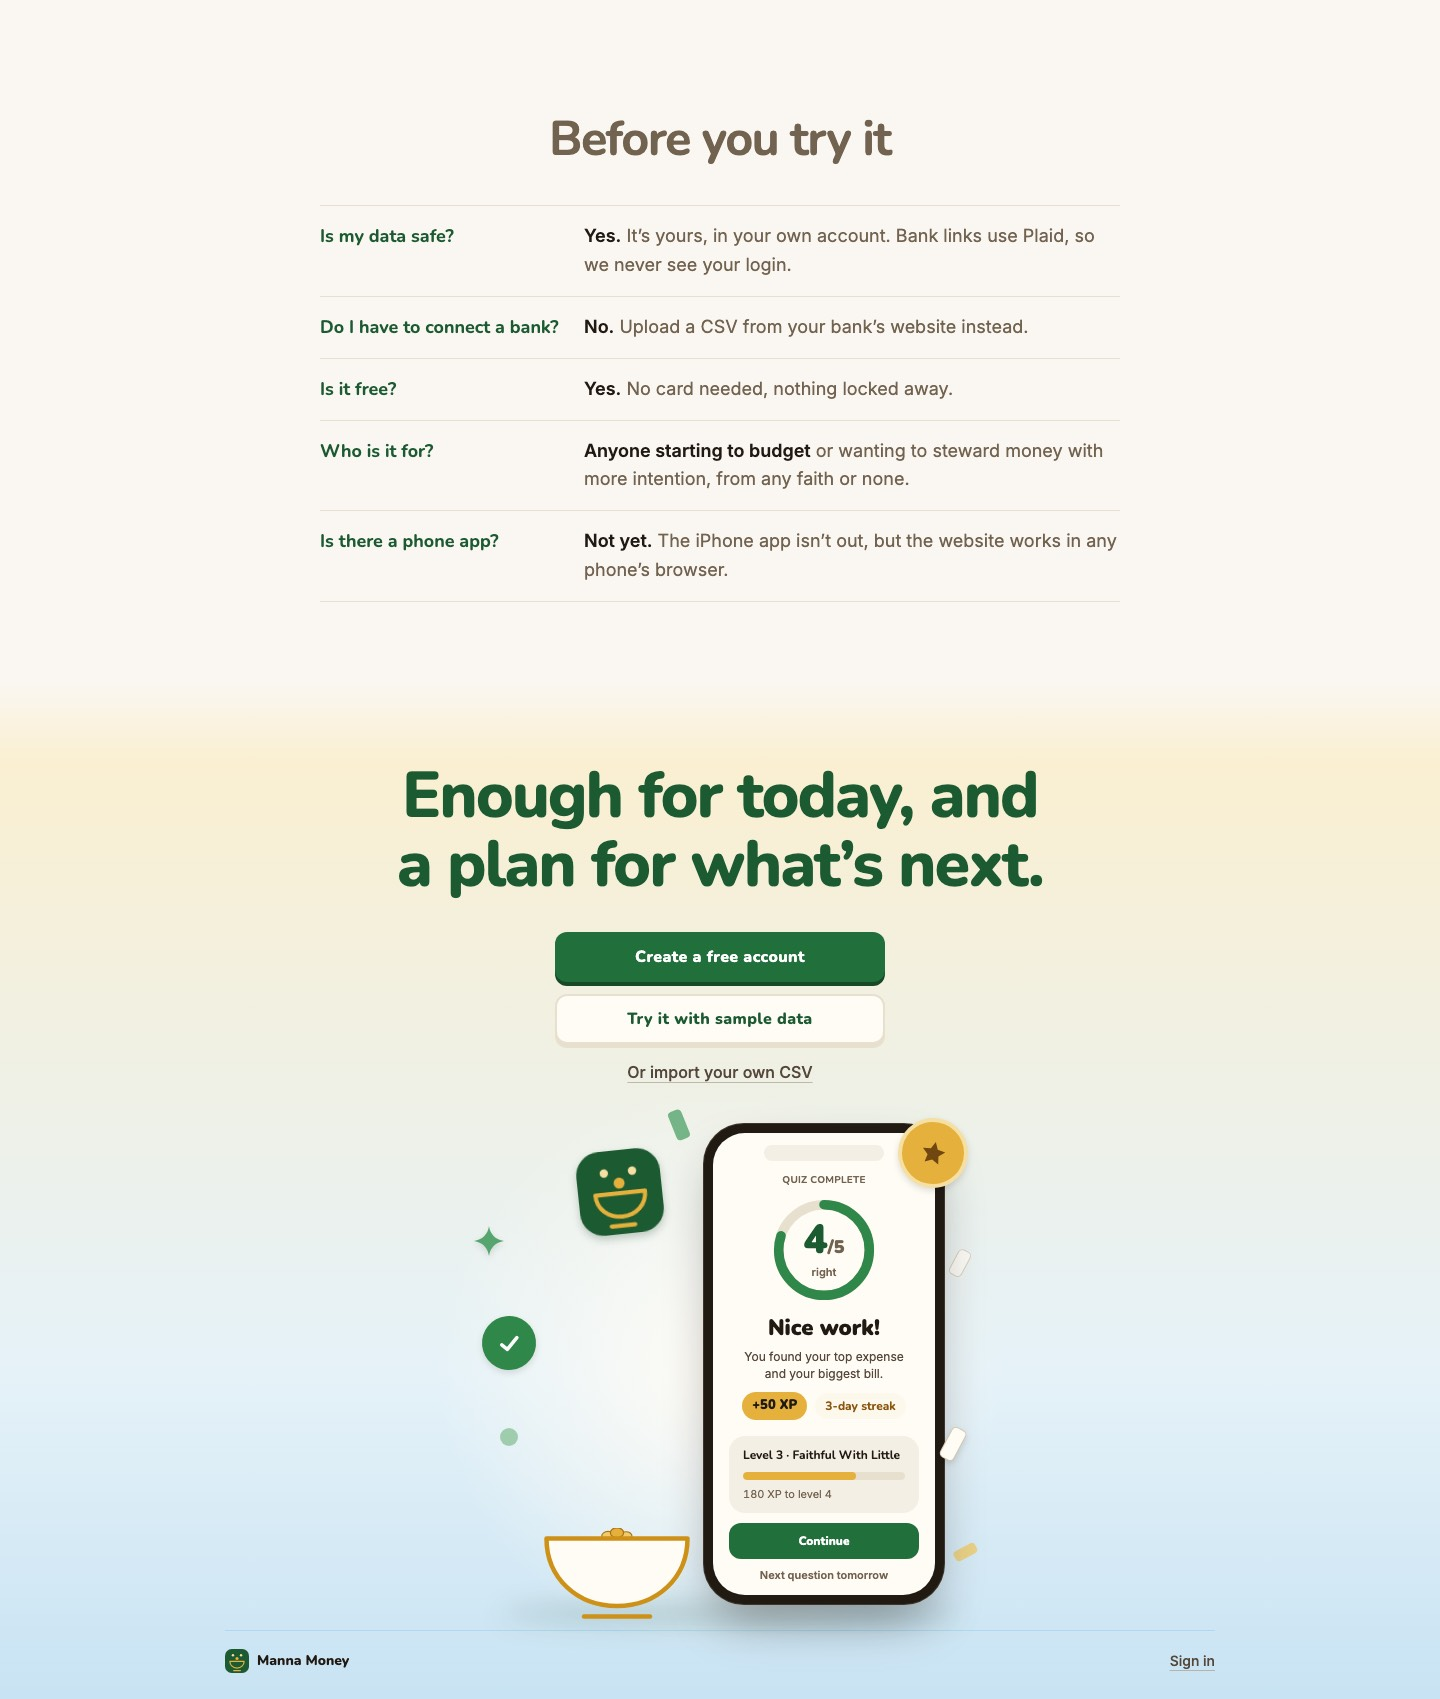
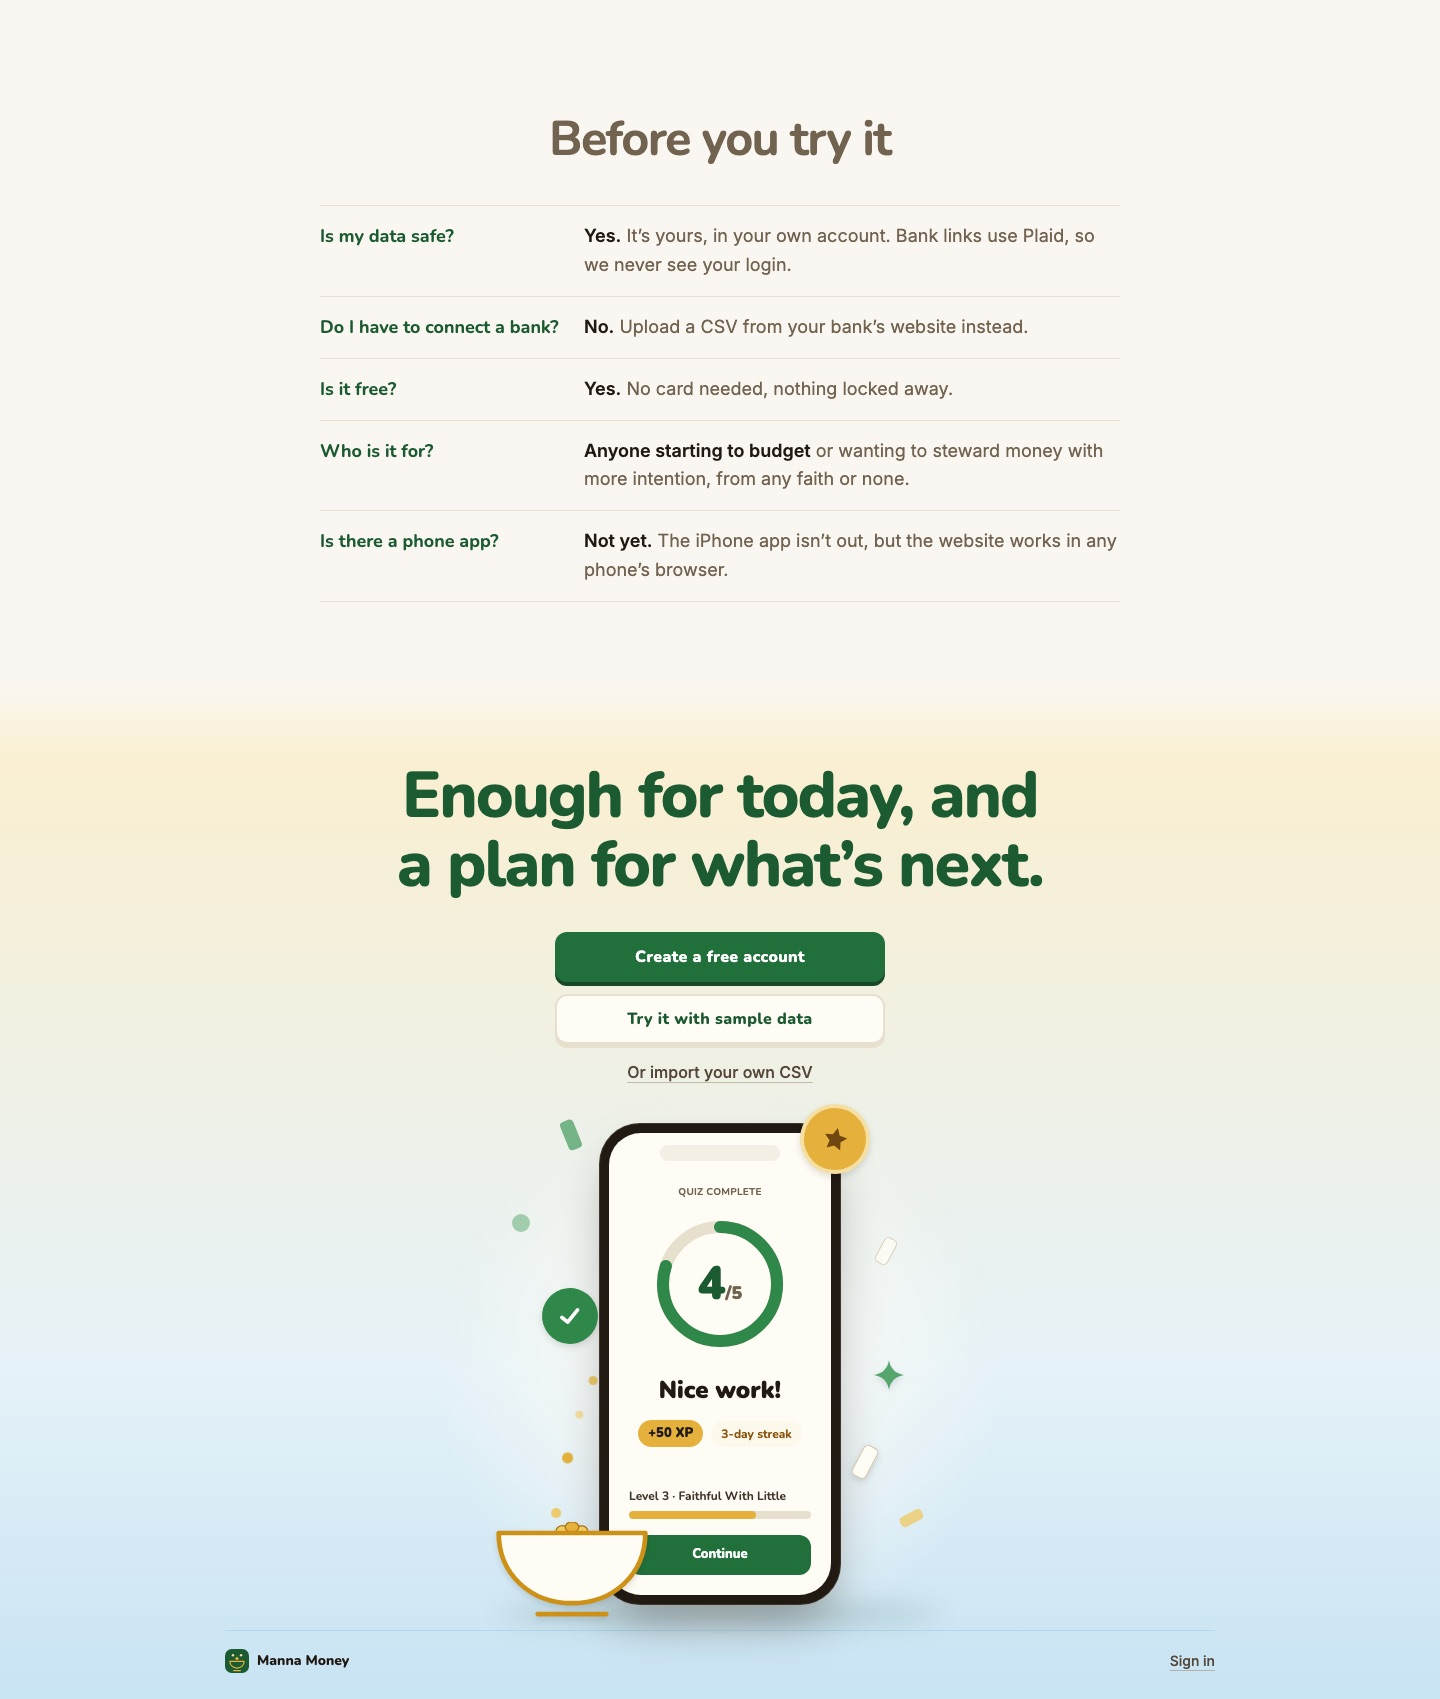
Update the landing handoff and current-round screenshots

Changed region(s): [[0.3125, 0.6239, 0.6875, 0.967]]

diff --git a/docs/design/landing/HANDOFF.md b/docs/design/landing/HANDOFF.md
@@ -1,8 +1,9 @@
 # Landing page redesign: handoff
 
-*Written 2026-09-24 at the end of the first design-loop run. Branch
-`feature/design-loop-landing`, last commit `7c8b766`. Read this first if you're
-picking up the landing page, restyling it, or running another design loop.*
+*Written 2026-09-24 at the end of the first design-loop run, and updated the
+same day after David's review of the rounds (see "David's round review" below).
+Branch `feature/design-loop-landing`. Read this first if you're picking up the
+landing page, restyling it, or running another design loop.*
 
 ## What exists now
 
@@ -20,13 +21,16 @@ signed out with no data.
 | --- | --- |
 | `src/components/landing/Landing.tsx` | Page shell and the `LandingActions` props (`onSignUp`, `onTrySample`, `onImport`, `onSignIn`). |
 | `LandingHero.tsx` + `hero.css` | Headline, subheadline, `CtaPair`, and the visual: morning clouds with a sun behind them, manna falling into a bowl, beside a phone showing "Correct! +10 XP". |
-| `LandingHowItWorks.tsx` + `how.css` | "From bank to budget": three alternating rows (connect your bank / one question a day / steady budgets + small wins). Bank tiles come from one `BANKS` array of neutral placeholders; swap each `mark` for a real bank SVG later. |
-| `LandingWhy.tsx` + `why.css` | "Why Manna?" story (Fraunces softened, body size) and feature blocks: a pause each morning (verse of the day, optional), room to give, safe and yours. |
-| `LandingFinal.tsx` + `final.css` | Short FAQ ("Before you try it"), then the finale on its own dawn band: closing headline, `CtaPair`, import link, and the celebration (phone showing Quiz complete 4/5, Nice work, +50 XP, streak chip, level progress, Continue; confetti burst, medal, check; small logo dropping manna into the bowl). Footer with wordmark and Sign in. |
+| `LandingHowItWorks.tsx` + `how.css` | "From bank to budget": intro, the three step tiles (`HowSteps`), then two alternating rows: **One question a day** (the streak lives on this card, since answering daily is what grows it) and **Simple, steady budgets** (bars are forest green while under budget, as on the real Budgets card). |
+| `HowSteps.tsx` + `steps.css` | The three small steps in round 2's tile style: connect your bank, see your categories (a list that opens onto Groceries' transactions), plan your whole year (the round-1 Year Sheet card; numbers ripple in ring by ring from the top-right cell, then the Net row swells and brightens). Each tile plays **on hover or keyboard focus**; on touch screens it plays when centred and a tap replays it. Bank tiles come from one `BANKS` array of neutral placeholders; swap each `mark` for a real bank SVG later. |
+| `LandingWhy.tsx` + `why.css` | "Why Manna?" story (round-1 text in the storyteller voice, and the round-1 picture: manna falling into a honey bowl on a dawn disc), then room to give and safe and yours. |
+| `LandingFinal.tsx` + `final.css` | Short FAQ ("Before you try it"), then the finale on its own dawn band: closing headline, `CtaPair`, import link, and the round-4 celebration: the phone centred (Quiz complete 4/5 counting up, Nice work, +50 XP and streak chips, level bar, Continue), confetti, medal and check bursting out, and `MannaBowl` in front of the phone's foot (where round 4's hands were) catching falling manna. Footer with wordmark and Sign in. |
+| `ThemeSwitch.tsx` | The sun/moon pair in the hero's top bar. It sets the store's `theme`, the same setting as the app's own switch. |
 | `CtaPair.tsx` | The shared button stack, so the hero and finale always match. Without accounts configured, sample data becomes the only (primary) button. |
 | `PressButton.tsx` | The chunky press-in button (DESIGN.md recipe; the dark-mode edge steps up to forest-700 so it shows). |
 | `MannaBowl.tsx` | The bowl the manna lands in (the logo's closed bowl, drawn large). This is **Omer's spot**: when his art exists he replaces it, in the hero and the finale. |
-| `useReplayInView.ts` | Scroll motion: `rest` / `armed` / `play` phases. Plays when the element reaches the **middle band** of the screen (centre 30%), replays every time it comes back, and stays at `rest` under reduced motion. The start pose must still show all content. |
+| `useReplayInView.ts` | Scroll motion: `rest` / `armed` / `play` phases. Plays only once the element's **middle reaches the middle of the screen** (within 12% of the viewport height); an element taller than the screen plays once it covers the middle, and at the very top or bottom of the page being fully on screen is enough. Replays every time it comes back, and stays at `rest` under reduced motion. The start pose must still show all content. |
+| `useHoverPlay.ts` | The step tiles' trigger: the same phases, driven by hover/focus, falling back to `useReplayInView` plus tap-to-replay on touch screens. |
 | `styles.ts` | The shared type scale and rhythm: `DISPLAY` (36/64px), `HEADING` (34/48px), `BODY` (17/18px, linen-500), `SECTION`, `COLUMN` (990px). |
 
 Also changed outside the landing folder: **the logo** (`MannaLogo` in
@@ -59,6 +63,21 @@ language.
 - **Bank logos:** real SVG logos come later; placeholders for now.
 - **Mascot:** Omer isn't drawn. Don't generate characters (and don't use
   Higgsfield). The bowl holds his spot.
+- **Finale:** round 4's layout (phone centred, rewards around it) with the
+  bowl in the hands' spot. The phone keeps one of each thing: score, verdict,
+  XP and streak, level bar, Continue. The "You found your top expense…" line
+  and "Next question tomorrow" were cut as redundant.
+- **How it works:** the three setup steps are connect → categories → Year
+  Sheet, as hover tiles in round 2's style. The streak goes with the daily
+  question, never with budgets (they're separate features). Budget bars are
+  green while under budget.
+- **Why Manna:** round 1's story text ("Manna came each morning, just enough
+  for the day…") and round 1's bowl. It speaks to anyone rather than one
+  faith. "A pause each morning" was removed, mainly so the page never
+  suggests skipping the verse ("skip straight past").
+- **Motion timing:** scroll animations wait until the thing is in the middle
+  of the screen, not when it first peeks in.
+- **Theme switch:** a small sun/moon pair at the top of the page.
 
 Design-system calls made during the loop (from docs/DESIGN.md):
 
@@ -76,7 +95,28 @@ Design-system calls made during the loop (from docs/DESIGN.md):
   account, bank tokens are encrypted, and no screen shows anyone else your
   finances.
 
-## Known open issues (from the round-5 critics; not yet fixed)
+## David's round review (after round 5)
+
+David picked pieces from different rounds; these are now built:
+
+| Piece | Now |
+| --- | --- |
+| Hero | Unchanged, plus the sun/moon theme switch in the top bar. |
+| How it works | Round 2's three-tile layout for connect → categories → Year Sheet (hover to play), then the question-of-the-day row (with its streak) and a green budgets row. |
+| Why Manna | Round 1's text and bowl; the Year Sheet moved into How it works; "A pause each morning" removed. |
+| Final | Round 4's layout and motion with the bowl instead of hands; the current phone content, trimmed. |
+
+These haven't been through the critics. Current renders are the
+`<piece>-now.jpg` files.
+
+## Known open issues (from the round-5 critics; some since fixed)
+
+Fixed since: "Linked securely" is sky; step 3's two-ideas problem (the streak
+card is gone from budgets); the budget mockup no longer shows a "$X left" line
+the real card doesn't have; Why Manna now avoids the faith-heavy verse block,
+and the Year Sheet (the money-planning feature) is on the page in How it works;
+the two ~36px-cornered tiles and the dark night-blue story fill went with the
+old Why pictures.
 
 The run stopped at David's 5-round checkpoint. No section passed all three
 critics, but **Hero, How it works and Final pass the brief critic**.
@@ -126,7 +166,8 @@ out these checkpoints:
 | `e4991c2` | End of round 5 for every piece, after the bank-first and sign-up direction; open hands in Omer's spot. |
 | `1f7db25` | Hands removed, three-flake logo, round-3 celebration restored. |
 | `f4ead08` | Closed-bowl logo, clouds and bowl in the hero, fuller finale phone. |
-| `7c8b766` | Current: sun behind the clouds, mid-screen scroll trigger. |
+| `7c8b766` | Sun behind the clouds, mid-screen scroll trigger. |
+| `8a791b3` | Current: David's round review: step tiles, round-1 Why, round-4 finale with the bowl, theme switch, centred scroll trigger. |
 
 To look at one without touching your working copy, use a git worktree:
 
@@ -194,6 +235,10 @@ across rounds) plus three fresh critics per piece:
      `--prod` for its renders.
    - Replay checks need a second visit (`--revisit`), and the hero needs
      `--topwait 0` because it replays the instant you're back at the top.
+   - Since the scroll trigger waits for the middle of the screen, `--tall`
+     (which stretches the viewport to the whole section) leaves rows in their
+     start pose. Add `--reduced` for a still of the finished state. The step
+     tiles only play on hover; check them with Playwright's `hover()`.
    - Parallel builders must own separate files. Put shared pieces (buttons,
      type scale, hooks) in files the orchestrator owns.
 7. **Usage limits:** 4 builders + 12 critics per round is heavy, and the run hit
@@ -223,10 +268,9 @@ across rounds) plus three fresh critics per piece:
 ## Suggested next steps
 
 1. Fix the objective leftovers in one pass: link color, dark dawn in the finale,
-   the 36px tile corners, the pie label, the "Linked securely" color, the finale
-   headline color.
-2. Give Why Manna a real money-planning feature and one consistent visual
-   treatment.
+   the pie label, the finale headline color.
+2. Give Why Manna's remaining pictures one consistent treatment (the round-1
+   bowl disc, the pie and the device scene are three styles).
 3. Drop in real bank logos (`BANKS` in LandingHowItWorks.tsx).
 4. When Omer's art lands, replace `MannaBowl` in the hero and finale (look for
    the "Omer's spot" comments).
